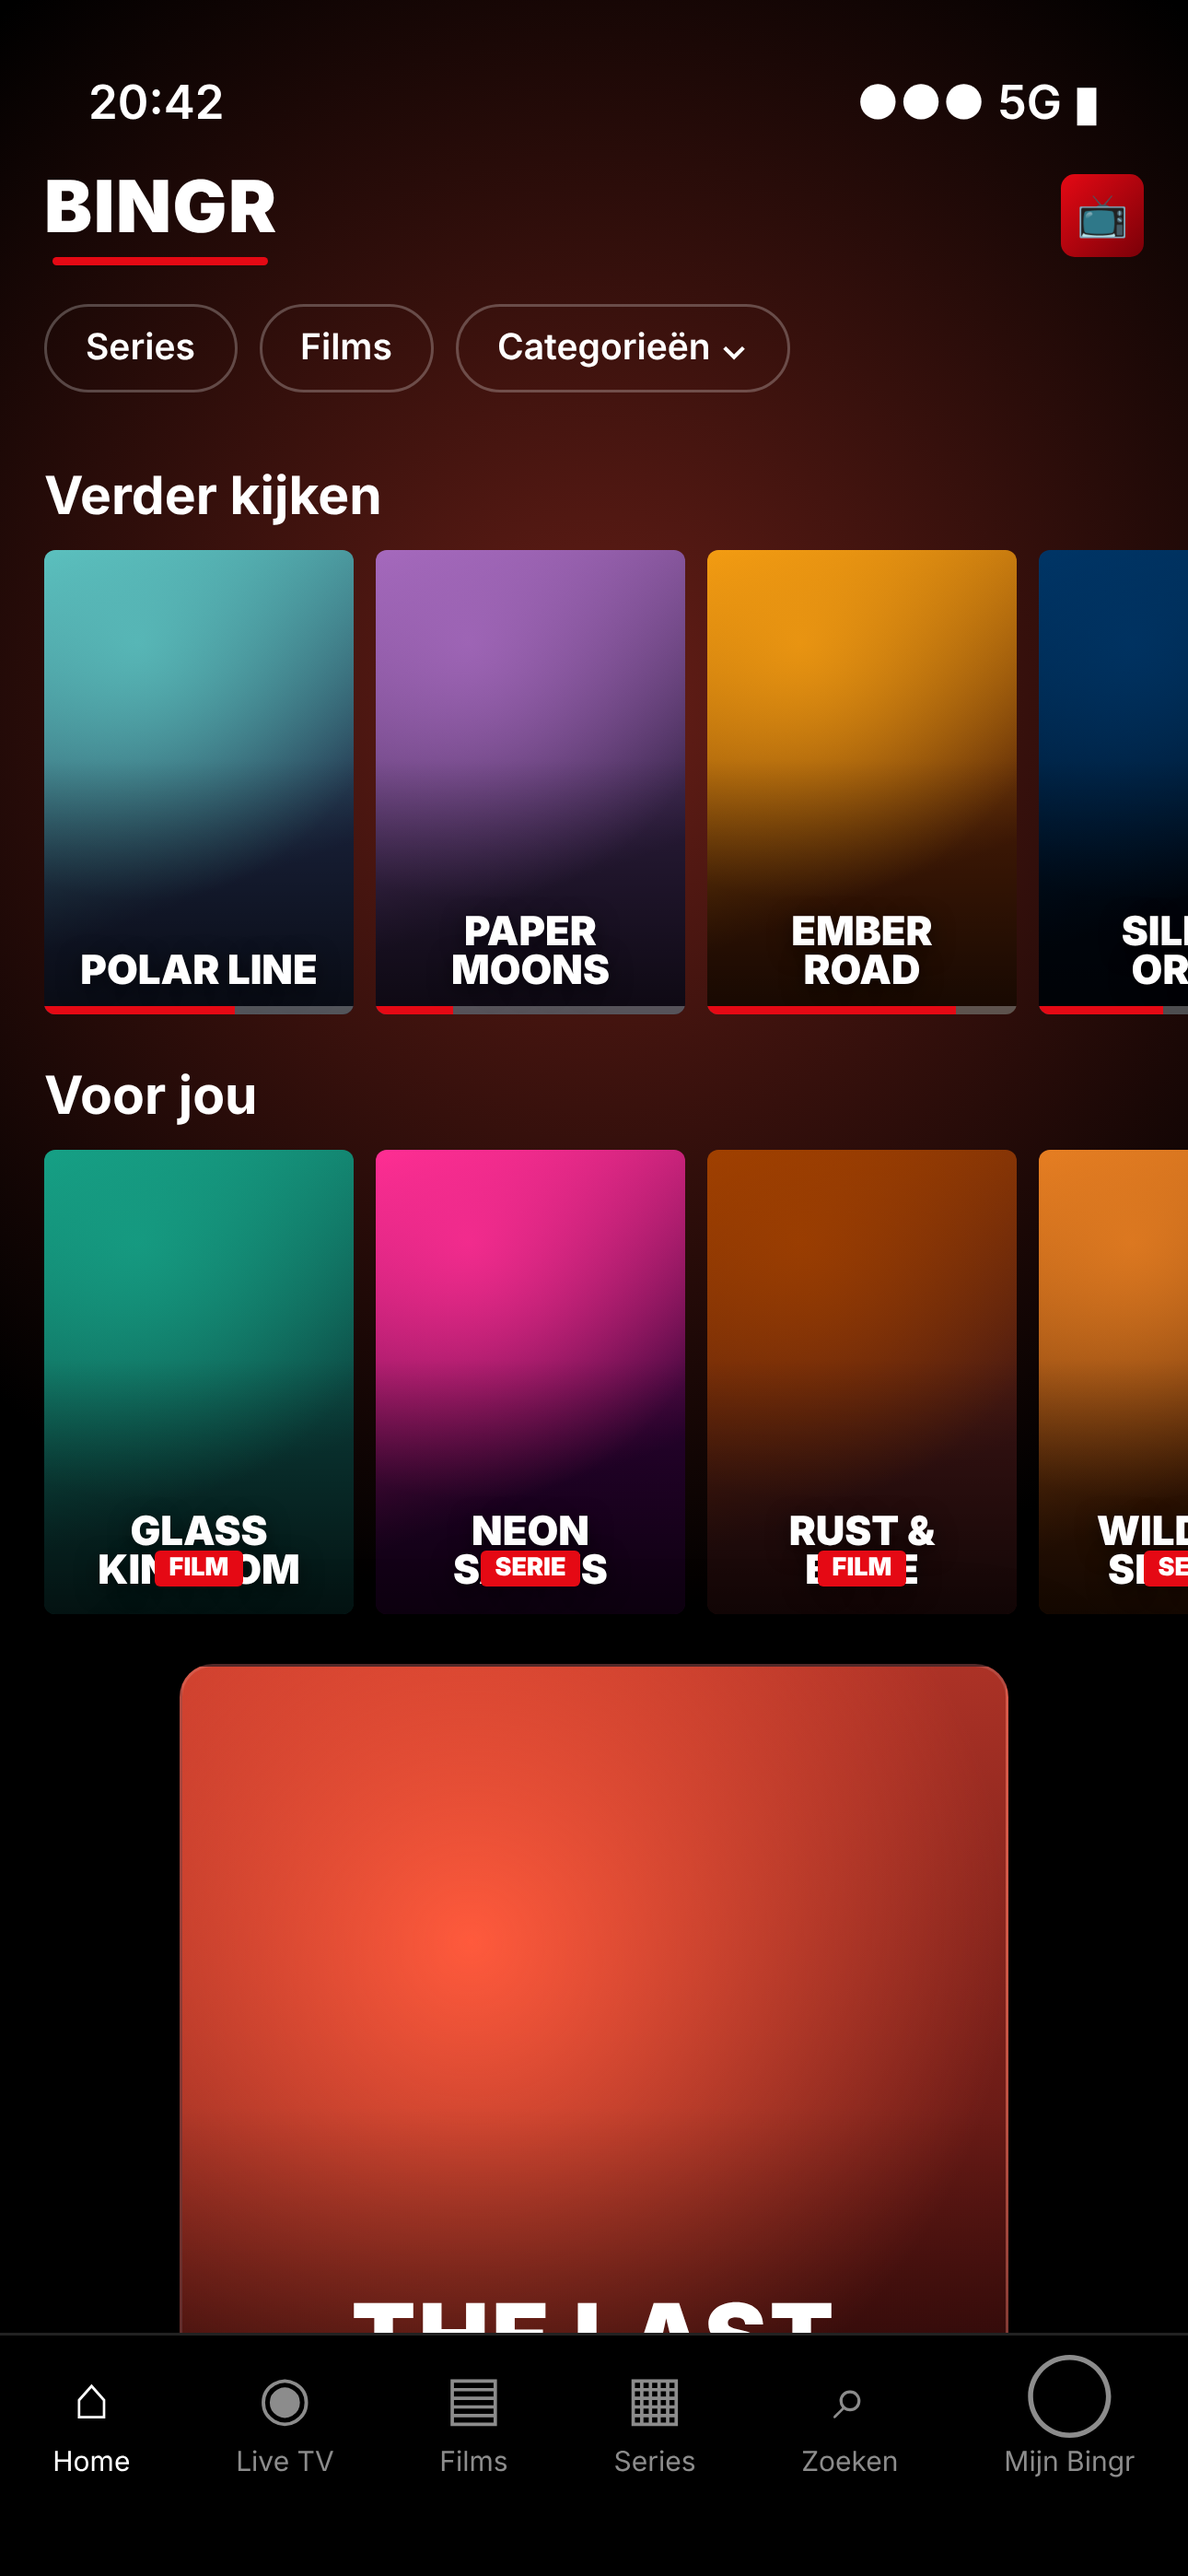
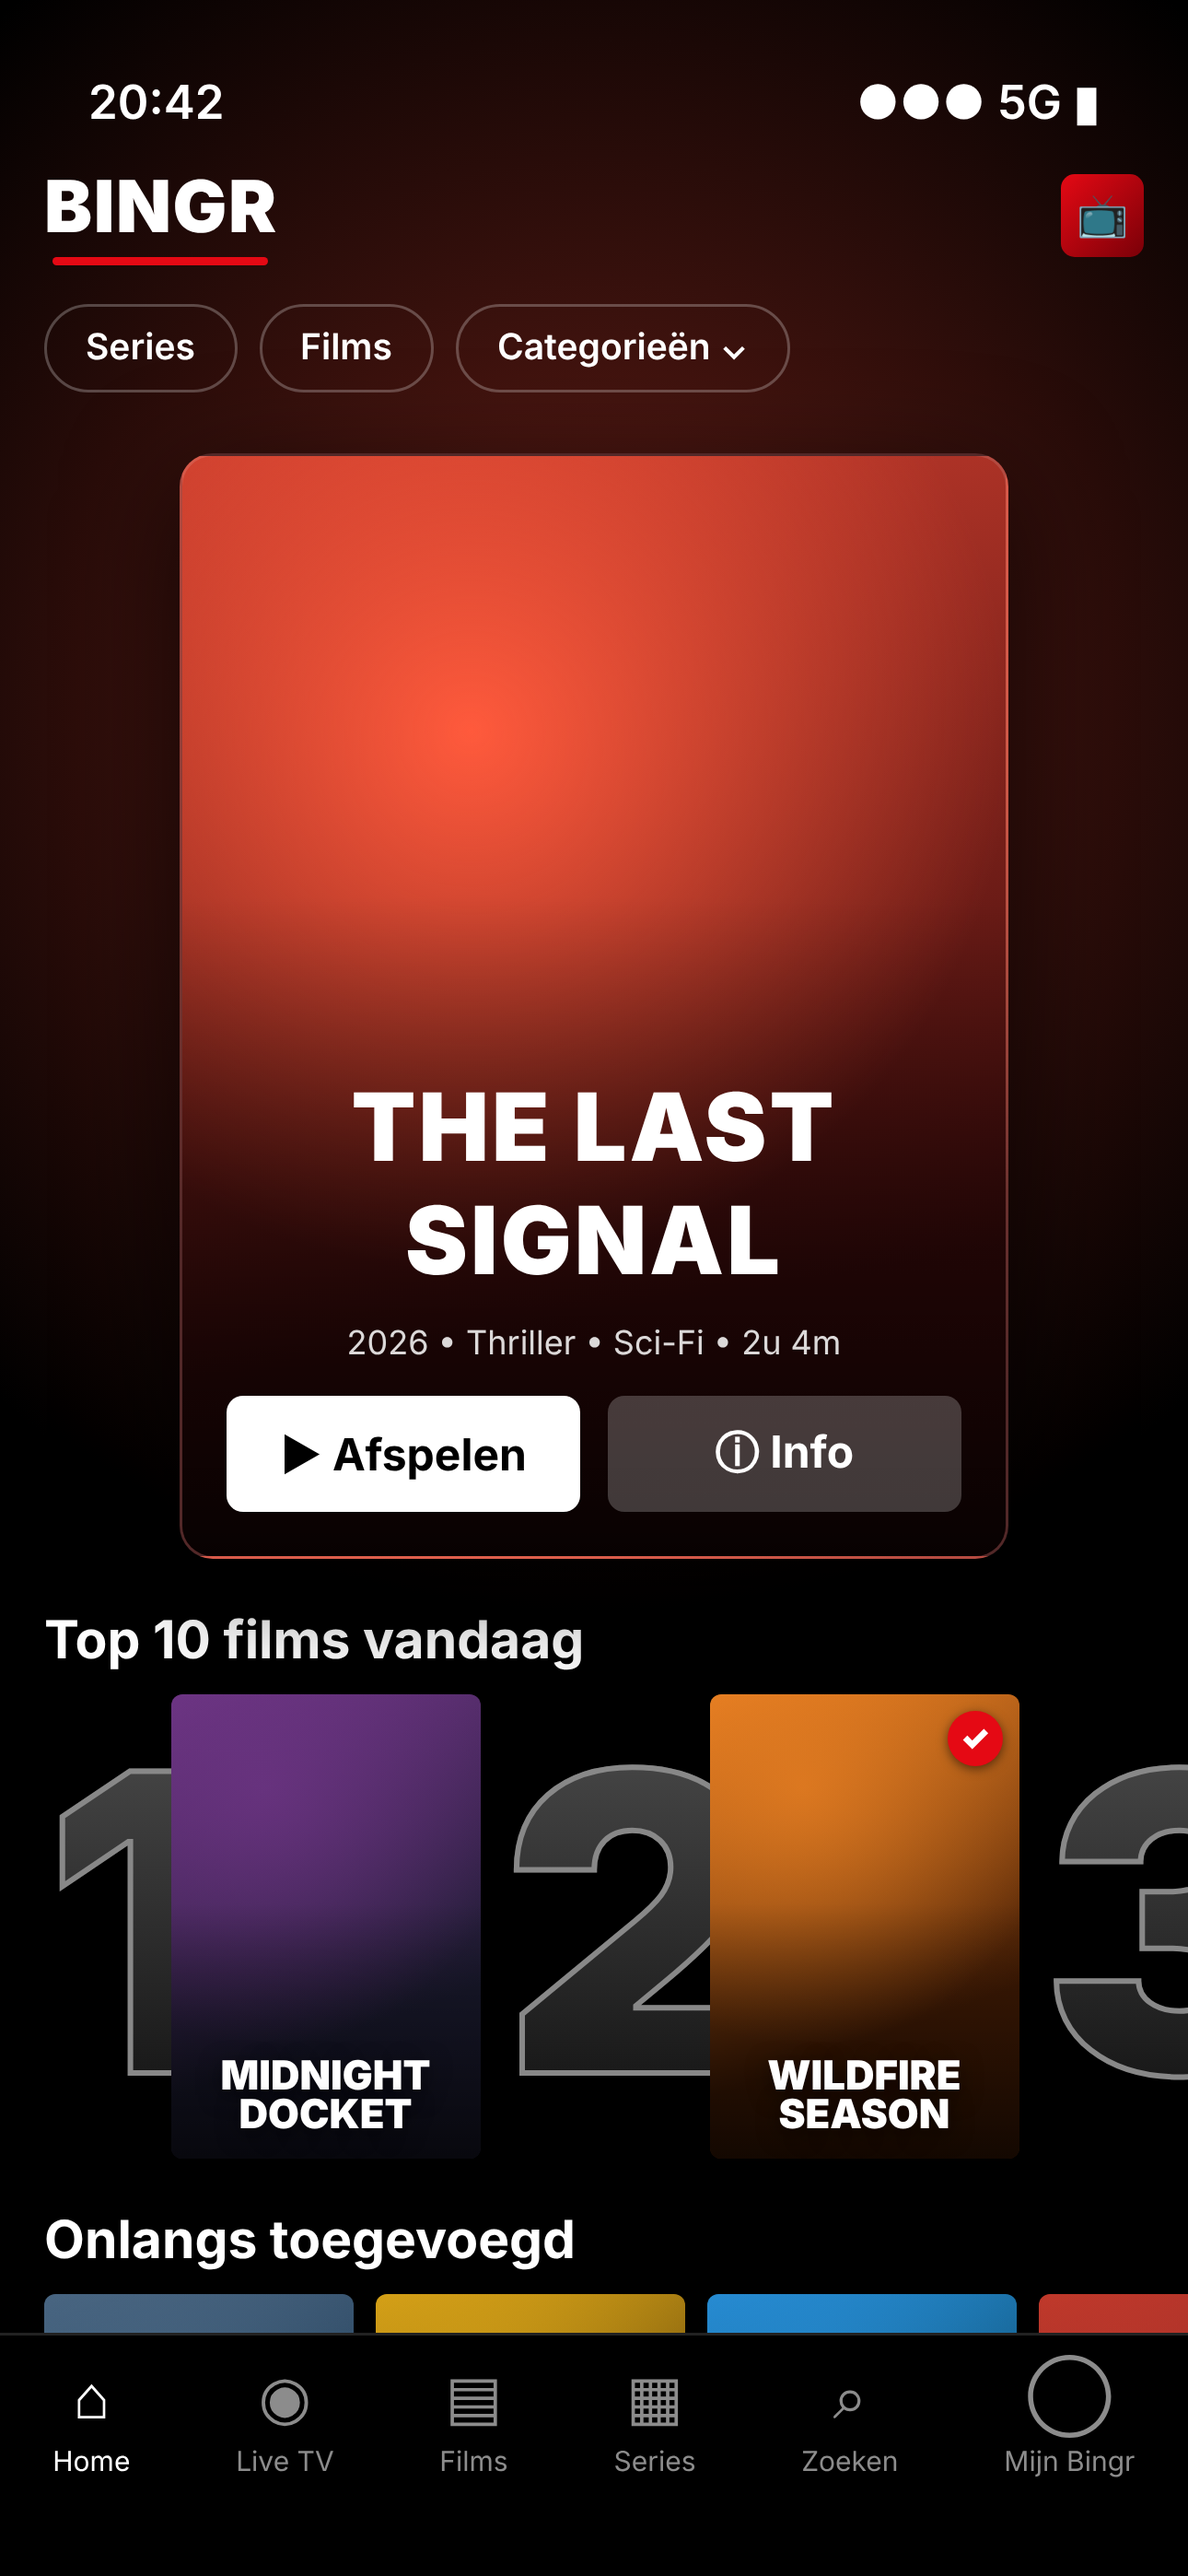
Build 7: Verder kijken en Voor jou onder Onlangs toegevoegd
Claude-Session: https://claude.ai/code/session_01QoqqLVTvT2ekCDQmWshsy8

diff --git a/docs/mockups/mockups.html b/docs/mockups/mockups.html
@@ -70,15 +70,16 @@ const screens = {
    <div style="position:relative"><div class="status"><span>20:42</span><span>●●● 5G ▮</span></div>
    <div style="display:flex;justify-content:space-between;align-items:center;padding:6px 16px"><div class="logo" style="font-size:26px">BINGR</div><div class="avatar" style="width:30px;height:30px;font-size:15px;border-radius:5px;background:linear-gradient(135deg,#E50914,#7A0008)">📺</div></div>
    <div style="display:flex;gap:8px;padding:8px 16px"><span class="pill">Series</span><span class="pill">Films</span><span class="pill">Categorieën ⌄</span></div>
-   <div class="row"><h3>Verder kijken</h3><div class="scroller">${[4,8,2,11].map((i,k)=>poster(i,112,{prog:[62,25,80,40][k]})).join('')}</div></div>
-   <div class="row"><h3>Voor jou</h3><div class="scroller">${[3,9,12,6].map((i,k)=>poster(i,112,{badge:k%2?'SERIE':'FILM'})).join('')}</div></div>
-   <div style="margin:18px auto 0;width:300px;height:400px;border-radius:12px;overflow:hidden;position:relative;box-shadow:0 10px 40px #000a;border:1px solid #ffffff20;background:radial-gradient(circle at 35% 25%,#ff5a3c,transparent 55%),linear-gradient(170deg,#c0392b,#3a0a0a 75%)">
+   <div style="margin:14px auto 0;width:300px;height:400px;border-radius:12px;overflow:hidden;position:relative;box-shadow:0 10px 40px #000a;border:1px solid #ffffff20;background:radial-gradient(circle at 35% 25%,#ff5a3c,transparent 55%),linear-gradient(170deg,#c0392b,#3a0a0a 75%)">
      <div style="position:absolute;inset:0;background:linear-gradient(transparent 40%,#000d)"></div>
      <div style="position:absolute;bottom:16px;left:16px;right:16px;text-align:center">
        <div style="font-weight:900;font-size:34px;letter-spacing:1px">THE LAST SIGNAL</div>
        <div style="font-size:12px;opacity:.85;margin:8px 0 12px">2026 • Thriller • Sci-Fi • 2u 4m</div>
        <div style="display:flex;gap:10px"><div class="btn w" style="flex:1;padding:10px">▶ Afspelen</div><div class="btn g" style="flex:1;padding:10px">ⓘ Info</div></div></div></div>
-   <div class="row"><h3>Top 10 films vandaag</h3><div class="scroller">${[0,1,2].map((i,k)=>`<div style="display:flex;align-items:center;flex:none"><div style="font-size:150px;font-weight:900;line-height:1;background:linear-gradient(#4a4a4a,#111);-webkit-background-clip:text;color:transparent;-webkit-text-stroke:2px #888;margin-right:-22px">${k+1}</div>${poster(i+5,112,{check:k==1})}</div>`).join('')}</div></div>
+   <div class="row"><h3>Top 10 films vandaag</h3><div class="scroller">${[0,1,2].map((i,k)=>`<div style="display:flex;align-items:center;flex:none"><div style="font-size:150px;font-weight:900;line-height:1;background:linear-gradient(#4a4a4a,#111);-webkit-background-clip:text;color:transparent;-webkit-text-stroke:2px #888;margin-right:-22px">${k+1}</div>${poster(i+5,112,{check:k==1})}</div>`).join('')}</div></div><div class="row"><h3>Onlangs toegevoegd</h3><div class="scroller">${[13,14,15,16].map(i=>poster(i,112)).join('')}</div></div>
+   <div class="row"><h3>Verder kijken</h3><div class="scroller">${[4,8,2,11].map((i,k)=>poster(i,112,{prog:[62,25,80,40][k]})).join('')}</div></div>
+   <div class="row"><h3>Voor jou</h3><div class="scroller">${[3,9,12,6].map((i,k)=>poster(i,112,{badge:k%2?'SERIE':'FILM'})).join('')}</div></div>
+   
    </div>
    <div class="tabbar">${["Home","Live TV","Films","Series","Zoeken","Mijn Bingr"].map((t,i)=>`<div class="${i==0?'on':''}"><span style="font-size:22px">${["⌂","◉","▤","▦","⌕","◯"][i]}</span>${t}</div>`).join('')}</div></div>`,
  ios_detail:()=>`<div class="screen" style="background:#000;overflow:hidden">

diff --git a/Shared/UI/Screens/HomeView.swift b/Shared/UI/Screens/HomeView.swift
@@ -24,16 +24,10 @@ struct HomeView: View {
         ZStack(alignment: .top) {
             ScrollView {
                 LazyVStack(alignment: .leading, spacing: tvScaled(26)) {
-                    #if os(iOS)
-                    Color.clear.frame(height: 100)
-                    #else
-                    Color.clear.frame(height: 20)
-                    #endif
-                    // bovenaan in elk tabblad: Verder kijken, daaronder Voor jou
-                    continueRow
-                    forYouRow
                     if let hero {
                         HeroBanner(target: hero, onPlay: { play(hero) }, onInfo: { detail = hero })
+                    } else {
+                        Color.clear.frame(height: tvScaled(90))
                     }
                     rows
                 }
@@ -68,11 +62,18 @@ struct HomeView: View {
             if !trendingMovies.isEmpty { top10Row(L("Top 10 movies today"), movies: Array(trendingMovies.prefix(10))) }
             let recent = lib.movies.filter { $0.addedAt != nil }.sorted { $0.addedAt! > $1.addedAt! }.prefix(30)
             if !recent.isEmpty { movieRow(L("Recently added"), Array(recent)) }
+            // onder Onlangs toegevoegd: Verder kijken, daaronder Voor jou
+            continueRow
+            forYouRow
         }
         if filter != .movies {
             let mine = lib.series.filter { s in pid.map { store.inMyList($0, s.id) } ?? false }
             if !mine.isEmpty && filter == .series { seriesRow(L("My List"), mine) }
             if !trendingSeries.isEmpty { top10Row(L("Top 10 series today"), series: Array(trendingSeries.prefix(10))) }
+            if filter == .series {
+                continueRow
+                forYouRow
+            }
         }
 
         if filter == .all {
